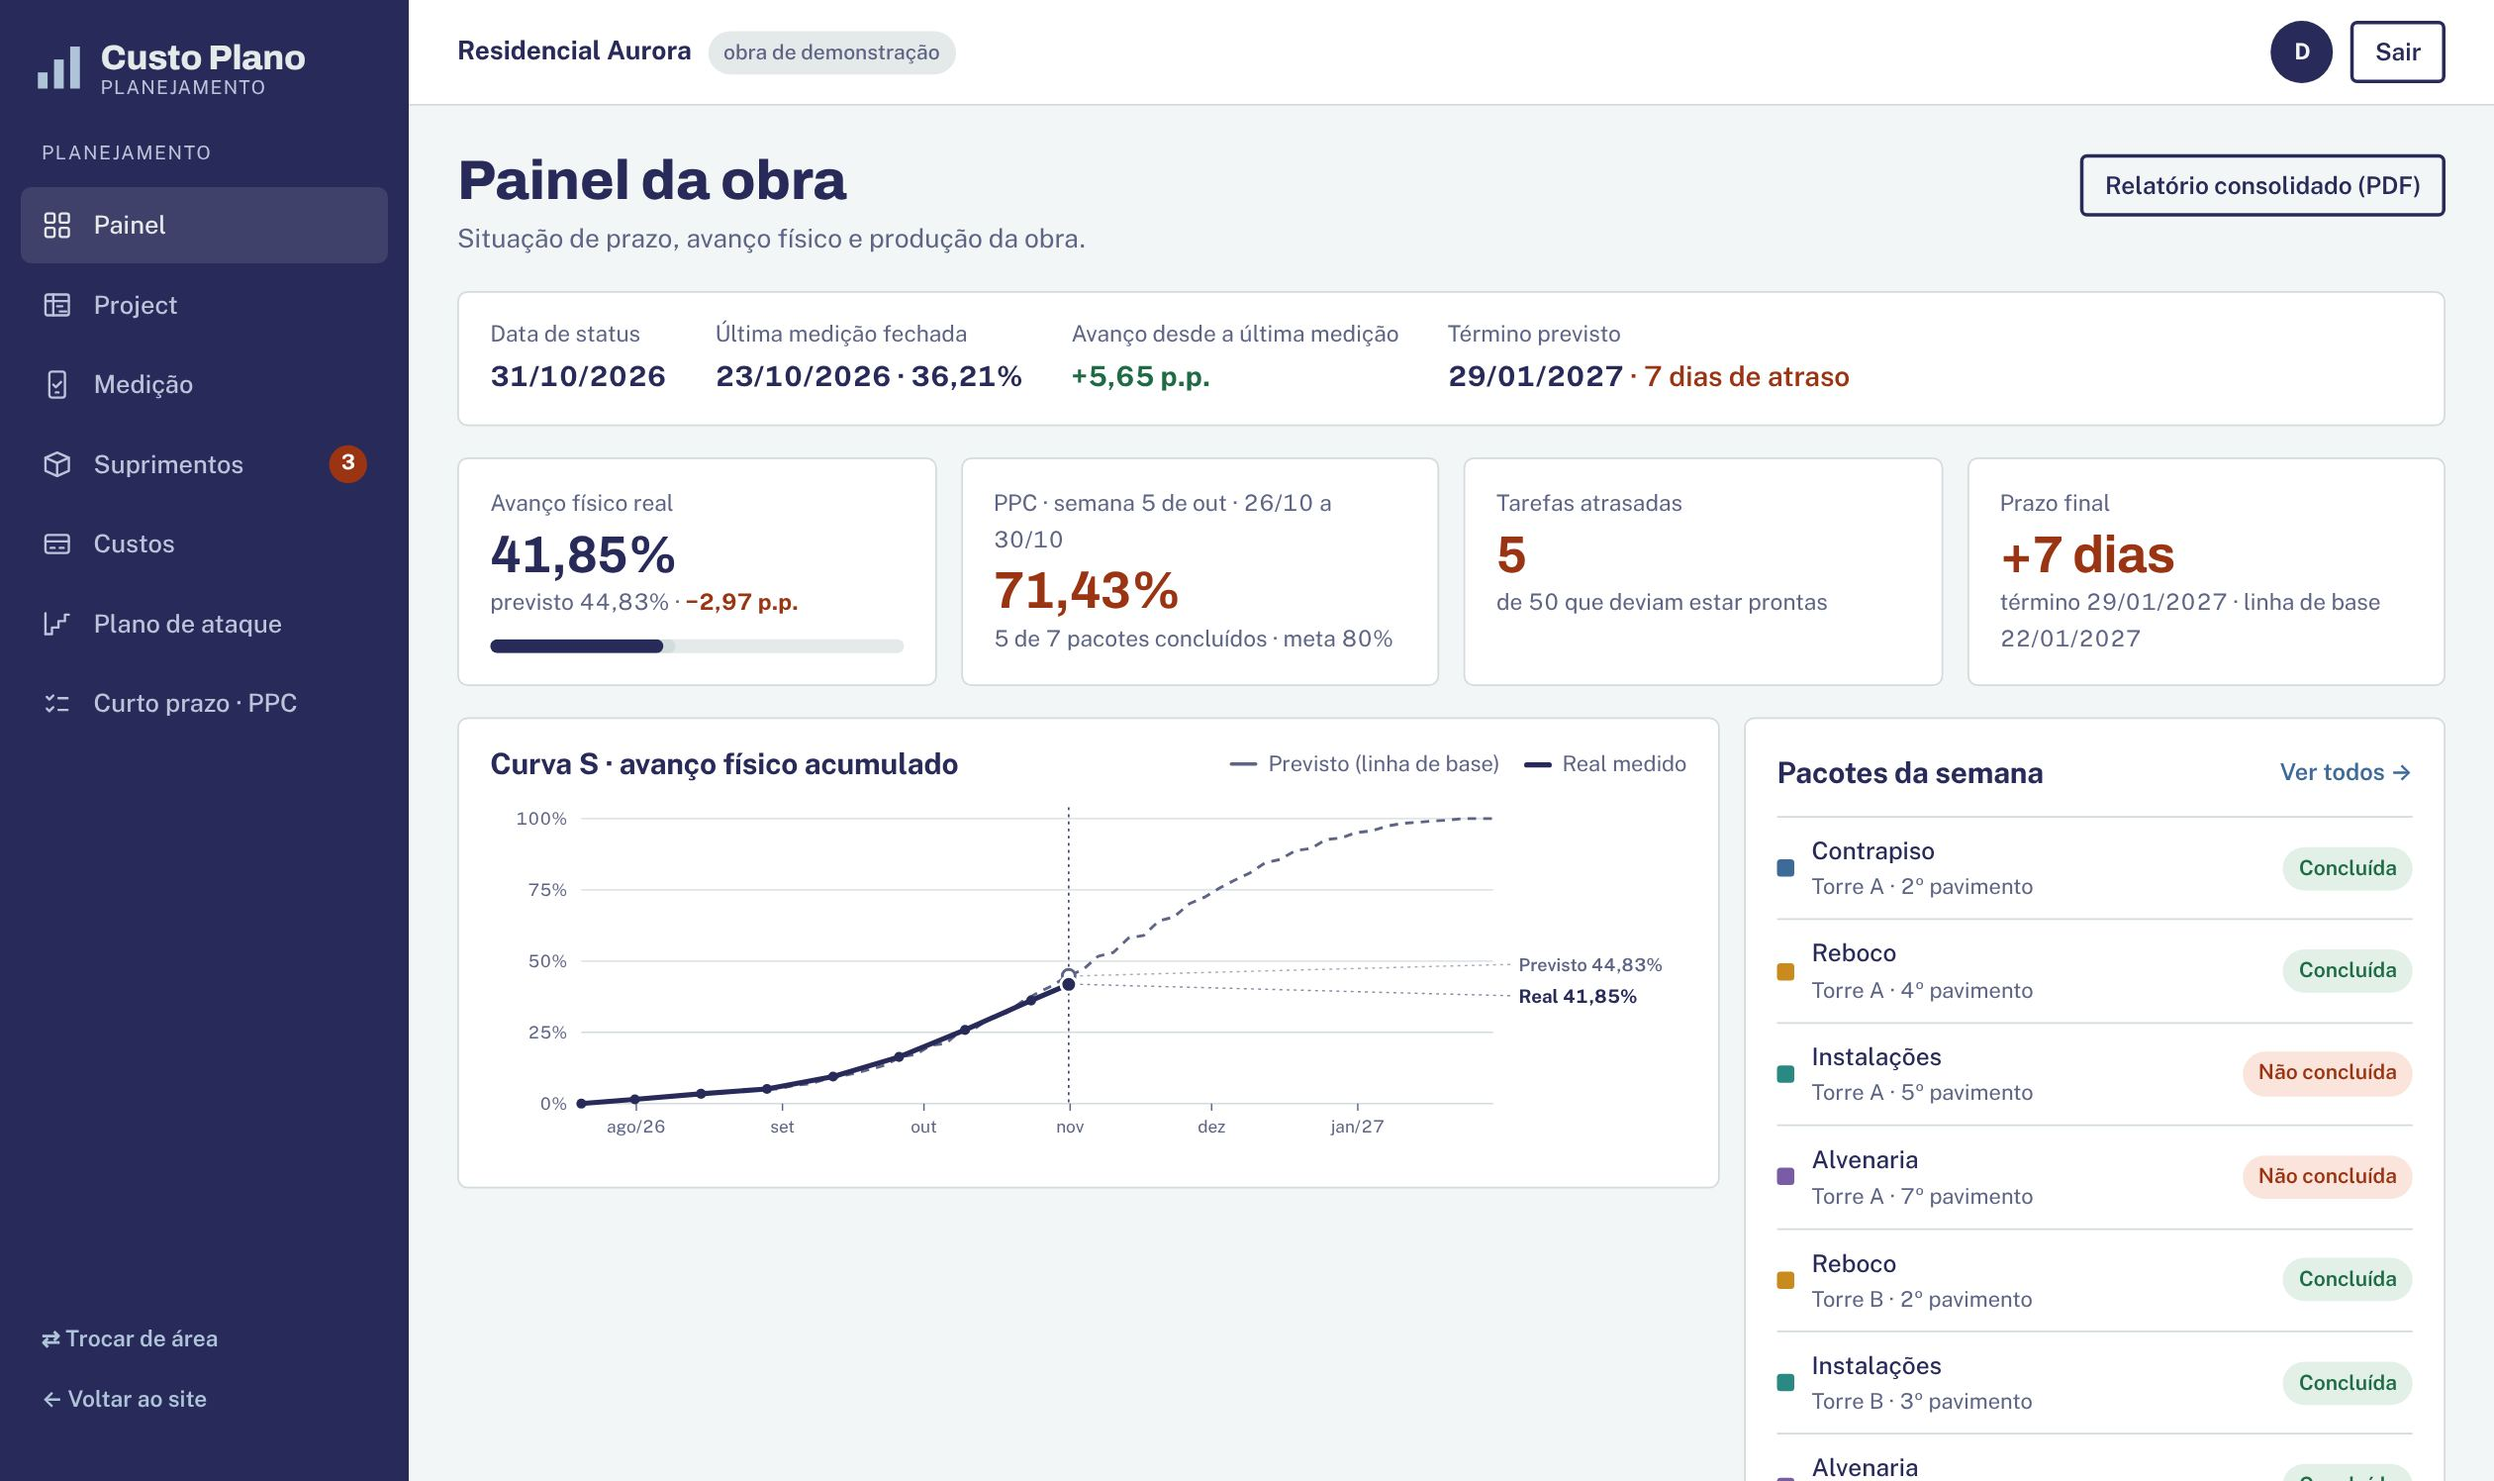
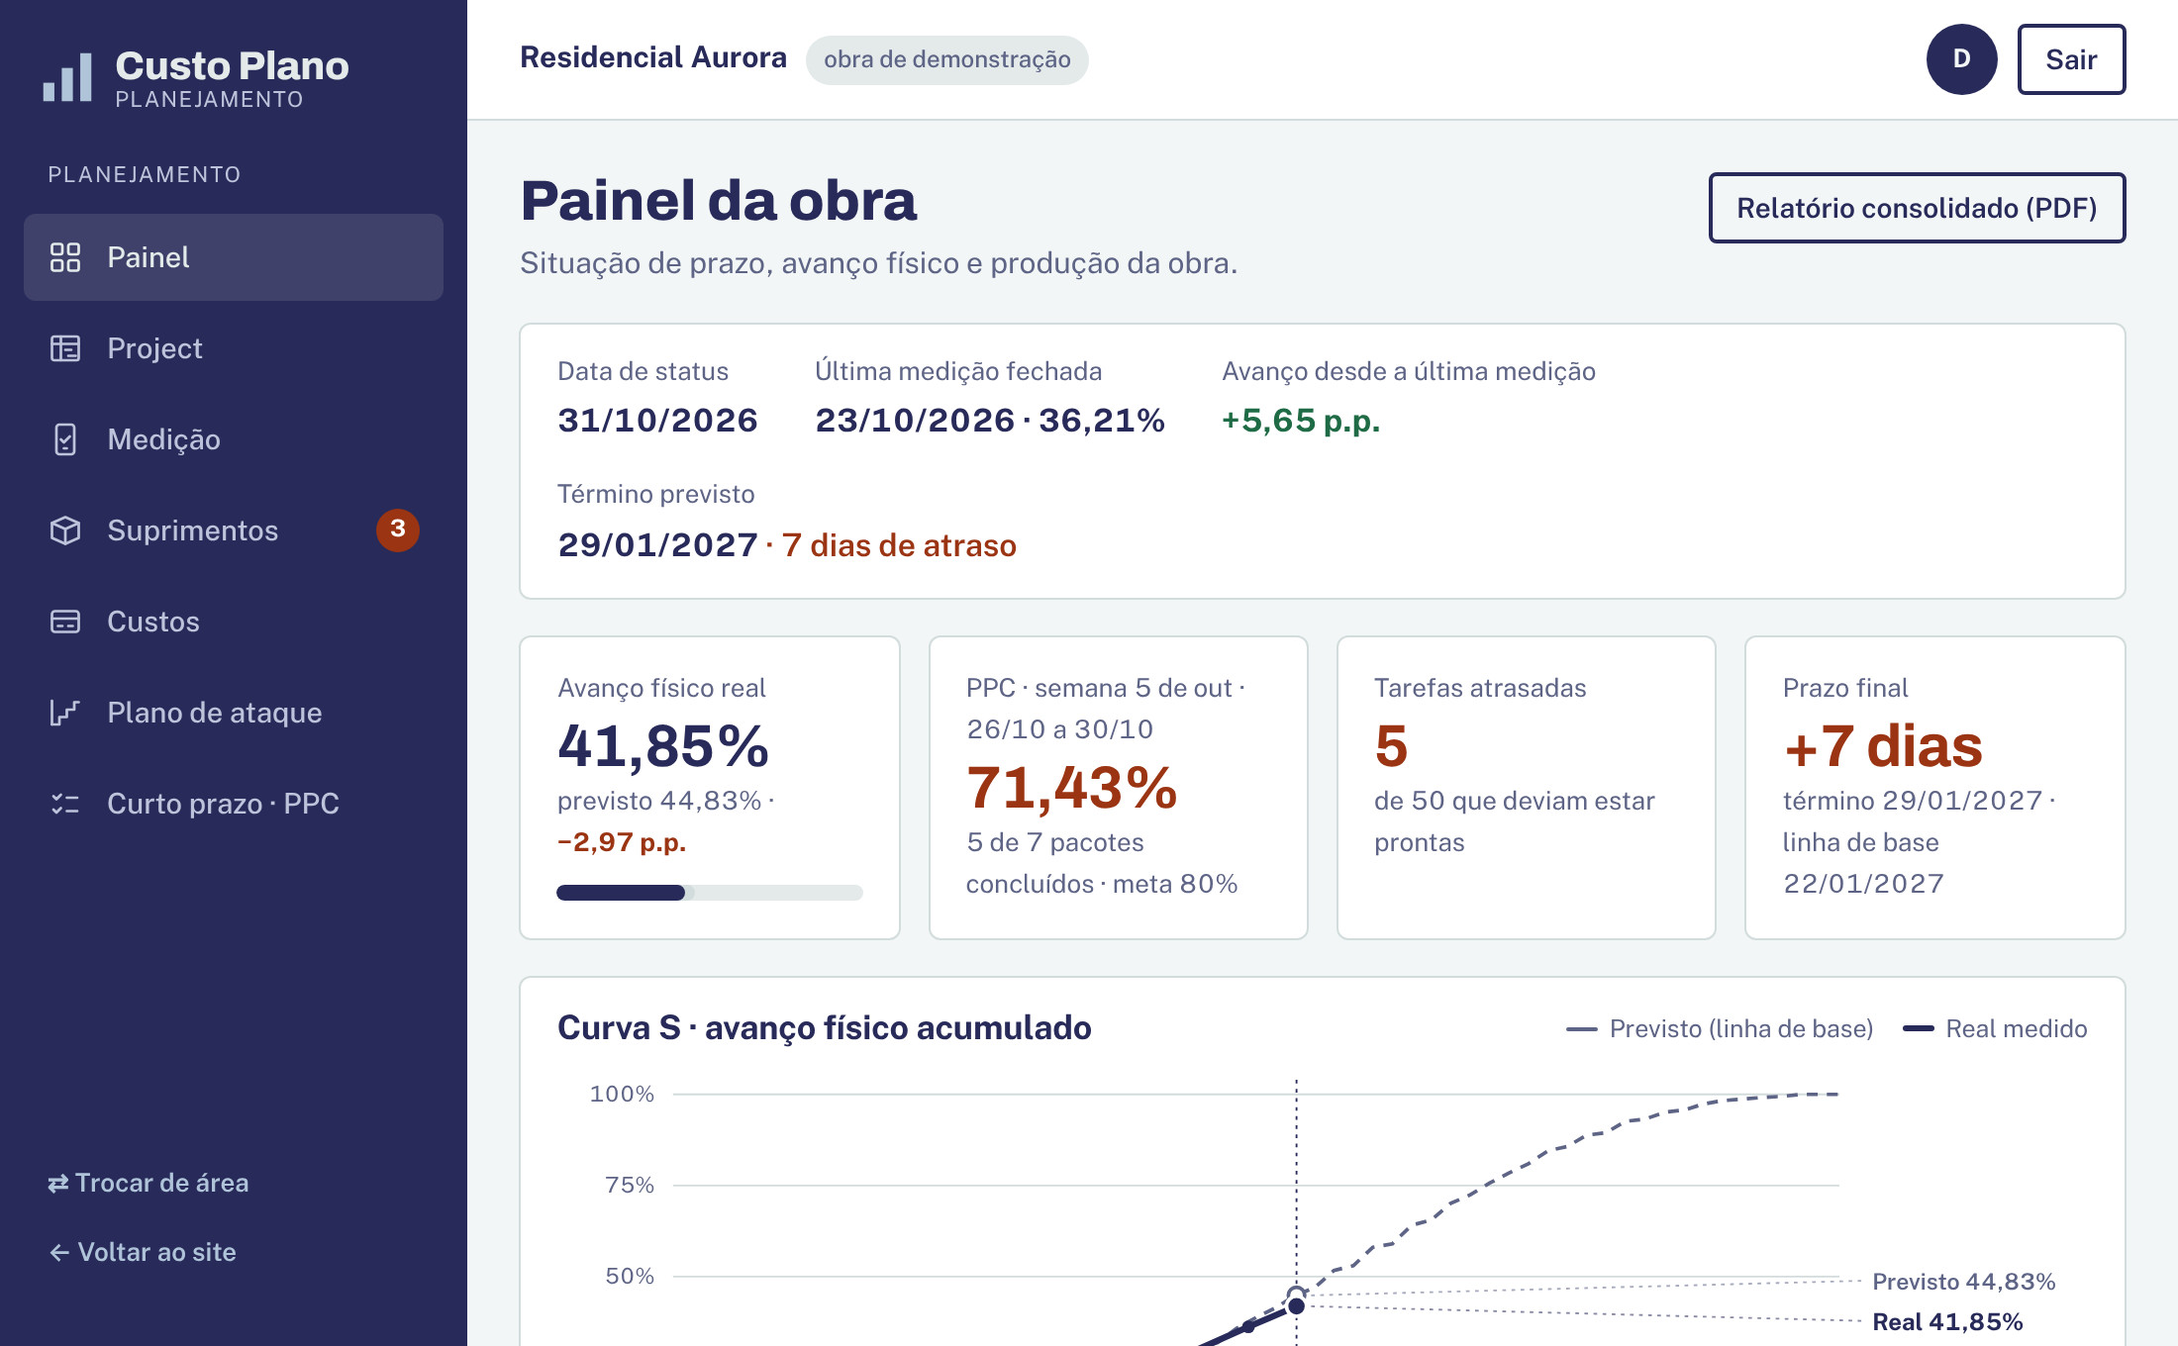
Site: telas mais nítidas (captura menor em 2x/3x, menos compressão) e sem a foto ilustrativa em Uma semana de obra
Claude-Session: https://claude.ai/code/session_019mzwrJJmGSibYtQ3xemZZR

diff --git a/custoplano/web/index.html b/custoplano/web/index.html
@@ -302,11 +302,6 @@ footer.site .copy{flex-basis:100%;font-size:13px}
 .cel{border:10px solid #2B2F3A;border-radius:38px;background:#2B2F3A;box-shadow:0 18px 40px color-mix(in srgb,#002455 16%,transparent);overflow:hidden;max-height:560px}
 .cel img{display:block;width:100%;height:auto;border-radius:28px}
 @media (max-width:720px){.tela-cel{grid-template-columns:1fr}.cel{max-width:280px;margin:0 auto}}
-.semana-foto{display:grid;grid-template-columns:minmax(0,1fr) minmax(0,240px);gap:24px clamp(24px,4vw,48px);align-items:start}
-.foto{margin:0;display:flex;flex-direction:column;gap:6px}
-.foto img{display:block;width:100%;height:auto;border-radius:12px;aspect-ratio:2/3;object-fit:cover}
-.foto figcaption{font-size:12.5px;color:var(--panel-muted)}
-@media (max-width:860px){.semana-foto{grid-template-columns:1fr}.foto{order:-1}.foto img{aspect-ratio:16/9;object-position:50% 30%}}
 .tela-img img{display:block;width:100%;height:auto}
 .tela figcaption{color:var(--muted);font-size:16px;max-width:64ch}
 .telas-cta{display:flex;gap:12px 20px;align-items:center;flex-wrap:wrap}
@@ -1202,19 +1197,19 @@ button.chip[data-adm^="serv:"]{border:0;cursor:pointer;font:inherit;display:inli
           <button type="button" role="tab" id="tt-med" aria-controls="tp-med" aria-selected="false" tabindex="-1">Medição no celular</button>
         </div>
         <figure class="tela" role="tabpanel" id="tp-painel" aria-labelledby="tt-painel">
-          <div class="tela-img"><img src="/web/telas/painel.jpg?v=3" width="1440" height="855" alt="Painel da obra com data de status, avanço real contra o previsto, término previsto, PPC, tarefas atrasadas e curva S" loading="lazy"></div>
+          <div class="tela-img"><img src="/web/telas/painel.jpg?v=4" width="1100" height="680" alt="Painel da obra com data de status, avanço real contra o previsto, término previsto, PPC, tarefas atrasadas e curva S" loading="lazy"></div>
           <figcaption>Avanço real contra o previsto, término previsto e atraso, PPC, tarefas atrasadas, curva S e os pacotes da semana, tudo puxado do cronograma do MS Project.</figcaption>
         </figure>
         <figure class="tela" role="tabpanel" id="tp-pa" aria-labelledby="tt-pa" hidden>
-          <div class="tela-img"><img src="/web/telas/pa.jpg?v=3" width="1440" height="855" alt="Escadinha por torre: serviços por pavimento com as datas, executados, em andamento e atrasados" loading="lazy"></div>
+          <div class="tela-img"><img src="/web/telas/pa.jpg?v=4" width="1100" height="680" alt="Escadinha por torre: serviços por pavimento com as datas, executados, em andamento e atrasados" loading="lazy"></div>
           <figcaption>A escadinha sai do próprio cronograma: um quadro por torre, do térreo à cobertura, com o que foi executado, o que atrasou e o desvio contra a linha de base. Dá para imprimir e levar para a reunião.</figcaption>
         </figure>
         <figure class="tela" role="tabpanel" id="tp-sup" aria-labelledby="tt-sup" hidden>
-          <div class="tela-img"><img src="/web/telas/sup.jpg?v=3" width="1440" height="855" alt="Suprimentos: lista de materiais com data na obra, prazo do fornecedor, data limite de compra e situação" loading="lazy"></div>
+          <div class="tela-img"><img src="/web/telas/sup.jpg?v=4" width="1100" height="680" alt="Suprimentos: lista de materiais com data na obra, prazo do fornecedor, data limite de compra e situação" loading="lazy"></div>
           <figcaption>Cada pacote do cronograma vira uma compra com data limite: a data em que o serviço começa menos o prazo do fornecedor. O fornecedor também volta para o MS Project numa coluna própria.</figcaption>
         </figure>
         <figure class="tela" role="tabpanel" id="tp-med" aria-labelledby="tt-med" hidden>
-          <div class="tela-cel"><div class="cel"><img src="/web/telas/med.jpg?v=3" width="390" height="844" alt="Medição no celular: a obra está em 41,85%, contra 44,83% previstos, com a lista de tarefas a medir por torre e pavimento" loading="lazy"></div>
+          <div class="tela-cel"><div class="cel"><img src="/web/telas/med.jpg?v=4" width="390" height="844" alt="Medição no celular: a obra está em 41,85%, contra 44,83% previstos, com a lista de tarefas a medir por torre e pavimento" loading="lazy"></div>
           <figcaption>Na sexta-feira, a equipe mede pelo celular, tarefa por tarefa. Sem sinal no canteiro, a medição fica guardada no aparelho e é enviada quando a conexão volta. O resumo diz em uma frase se a obra está à frente ou atrás do previsto.</figcaption></div>
         </figure>
         <div class="telas-cta">
@@ -1231,15 +1226,12 @@ button.chip[data-adm^="serv:"]{border:0;cursor:pointer;font:inherit;display:inli
         <h2>Uma semana de obra com a Custo Plano</h2>
         <p>Após o diagnóstico e o alinhamento do plano de longo prazo, a nossa rotina com a sua equipe segue um fluxo bem definido.</p>
       </header>
-      <div class="semana-foto">
       <ol class="semana">
         <li><b>Segunda-feira</b><div><h3>Alinhamento de curto prazo</h3><p>Reunião online com o engenheiro e os encarregados, de cerca de 30 minutos, pelo sistema. Fechamos o PPC (Percentual de Pacotes Concluídos) da semana anterior, analisamos as causas de não cumprimento dos pacotes e definimos as metas da semana.</p></div></li>
         <li><b>Terça a quinta-feira</b><div><h3>Gestão ativa de restrições</h3><p>Mapeamento e remoção de gargalos: suprimentos, projetos, liberação de frentes e mão de obra. Cada restrição tem responsável e prazo definidos para não impactar o avanço da produção.</p></div></li>
         <li><b>Sexta-feira</b><div><h3>Avanço e qualidade no canteiro</h3><p>A sua equipe registra pelo celular a medição física, pavimento por pavimento, e as FVS dos serviços concluídos. Nós consolidamos os dados e acompanhamos cada não conformidade (RNC) até o fechamento, com responsável e prazo de correção.</p></div></li>
         <li><b>Fechamento do mês</b><div><h3>Visão estratégica para a diretoria</h3><p>Emissão do relatório gerencial: avanço físico real contra a linha de base, orçado × realizado com a estimativa no término e painel de não conformidades em aberto.</p></div></li>
       </ol>
-      <figure class="foto"><img src="/web/fotos/predio.jpg?v=1" width="900" height="1350" alt="Imagem ilustrativa: estrutura de concreto de um prédio em construção" loading="lazy"><figcaption>Imagem ilustrativa</figcaption></figure>
-      </div>
     </div>
   </section>
 
@@ -1382,7 +1374,7 @@ button.chip[data-adm^="serv:"]{border:0;cursor:pointer;font:inherit;display:inli
         <div class="lg-pilares" aria-label="O que acompanhamos"><span>Prazo</span><span>Custo</span><span>Qualidade</span></div>
       </div>
       <figure class="lg-tela">
-        <img src="/web/telas/painel.jpg?v=3" width="1440" height="855" alt="Painel de uma obra no sistema da Custo Plano, com avanço, PPC e curva S">
+        <img src="/web/telas/painel.jpg?v=4" width="1100" height="680" alt="Painel de uma obra no sistema da Custo Plano, com avanço, PPC e curva S">
         <figcaption><i aria-hidden="true"></i>Atualizado pela equipe toda semana</figcaption>
       </figure>
     </aside>
